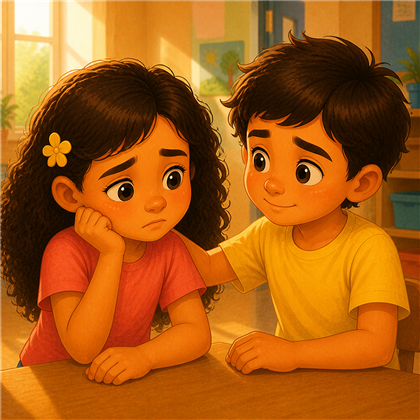
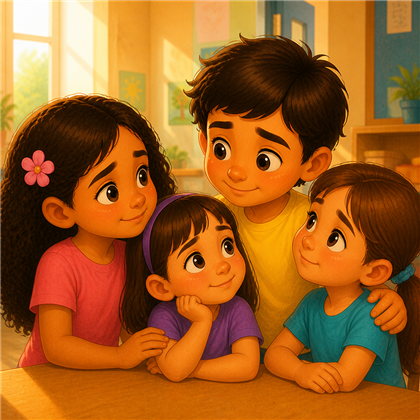
Fix peques Q12: group for los demas and brighter daytime options.

diff --git a/evaluacion-socioemocional-peques.html b/evaluacion-socioemocional-peques.html
@@ -524,7 +524,7 @@ const ITEMS = [
     ]),
   mk(12,"Habilidades interpersonales","Empatía","¿Te importa cómo se sienten los demás?",
     "¿Te importa cómo se sienten los demás? Primera opción: sí. Segunda opción: a veces. Tercera opción: casi nunca.",
-    sceneImg("assets/peques/q12-scene.png","Niño al que le importa cómo se siente una niña"),
+    sceneImg("assets/peques/q12-scene.png","Niño con un grupo de niñas: le importa cómo se sienten los demás"),
     [
       [thumbImg("assets/peques/q12-opt-si.png","Sí"),"Sí",3],
       [thumbImg("assets/peques/q12-opt-aveces.png","A veces"),"A veces",2],
